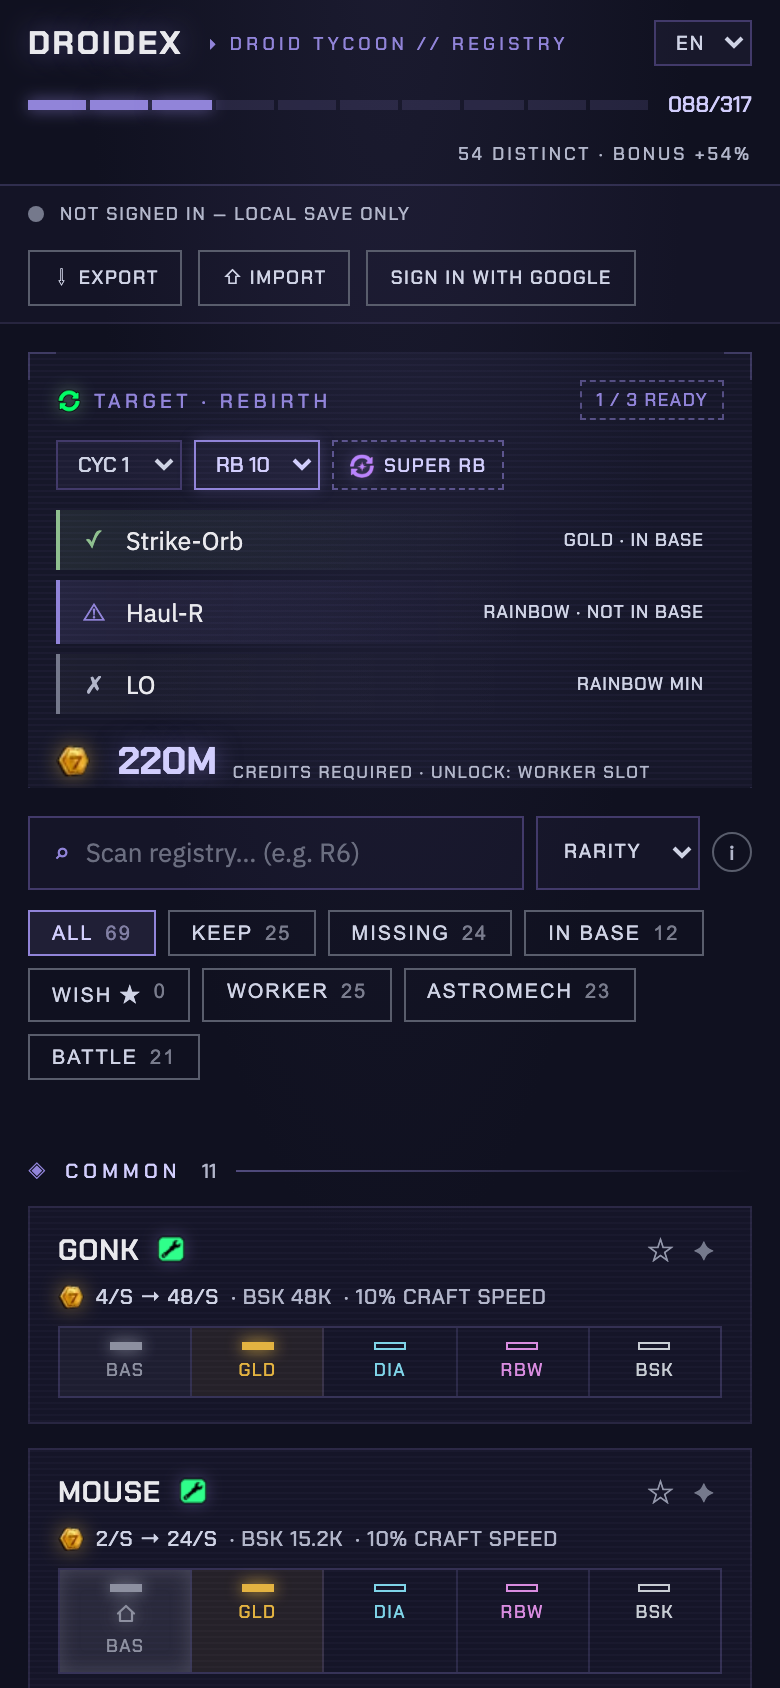
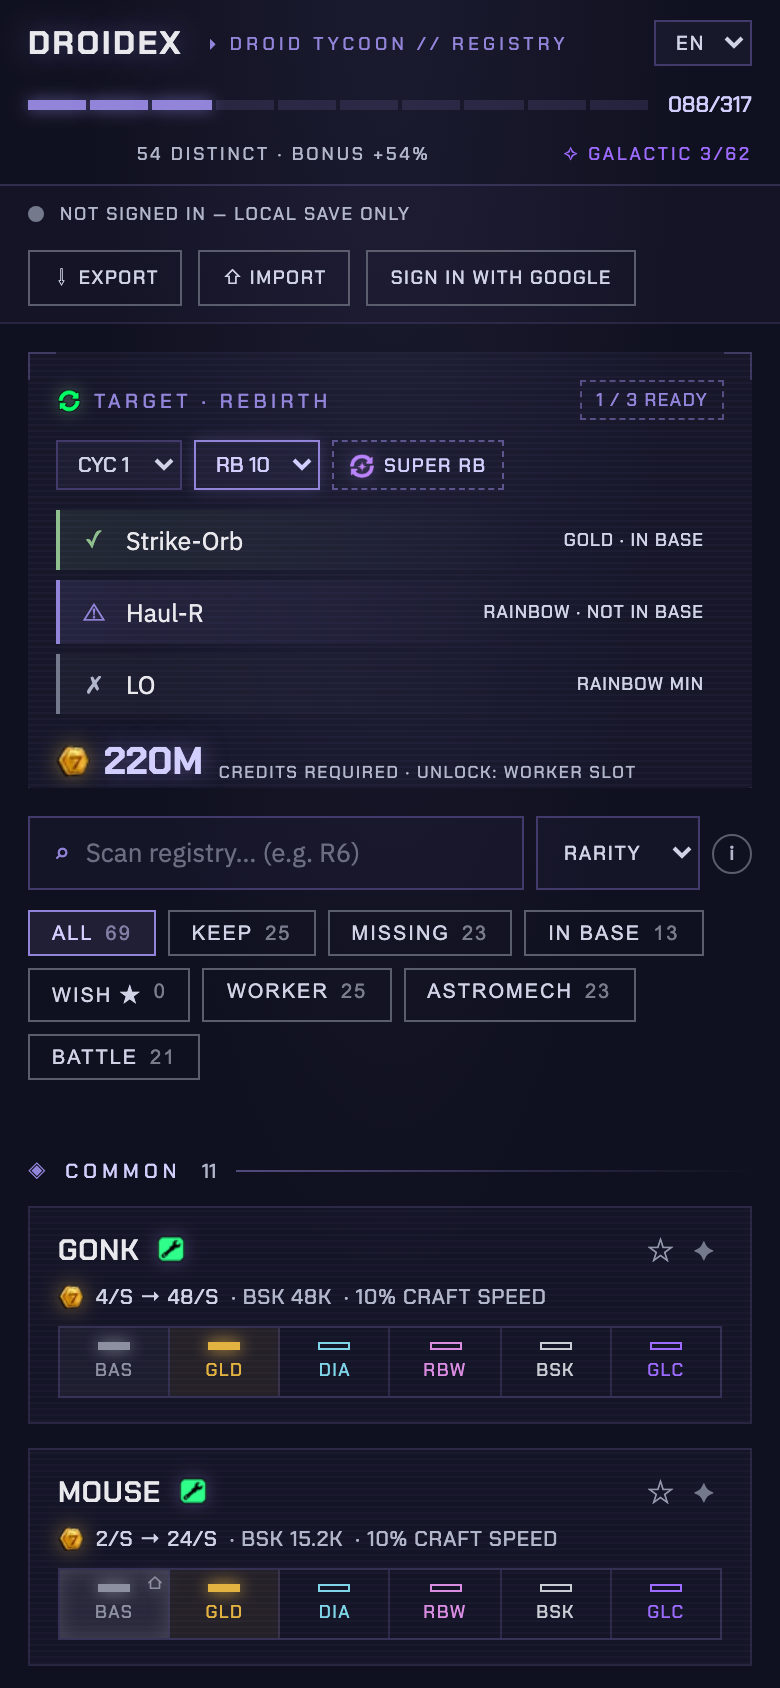
v1.5.1: contenu SEO dédié Galactique + captures README à jour
FAQ « What is the Galactic variant », intros value-list/rebirths, llms.txt,
captures régénérées avec pastilles GLC (registre démo enrichi).

diff --git a/tools/generate-seo-pages.js b/tools/generate-seo-pages.js
@@ -140,7 +140,9 @@ ${bodyHtml}
 
 function buildValueList() {
   const intro = `<p class="seo-intro">This value list gives the income per second and Beskar upgrade cost for every ` +
-    `droid in Star Wars: Droid Tycoon, across all six variants: Basic, Gold, Diamond, Rainbow, Beskar and Galactic. Numbers ` +
+    `droid in Star Wars: Droid Tycoon, across all six variants: Basic, Gold, Diamond, Rainbow, Beskar and Galactic ` +
+    `(the new tier added in the mid-July 2026 update — Galactic incomes are still being documented by the ` +
+    `community, undocumented values show as "—"). Numbers ` +
     `are cross-checked against community sources (${DATE_ISO}) rather than a single guide, and ` +
     `Droidex's own cycle 1 rebirth requirements have been verified in-game through rebirth 23. Iconic droids have ` +
     `no variants: owning one simply adds a flat +15% income bonus alongside its unique perk. Remember that in ` +
@@ -203,7 +205,8 @@ function buildRebirthRequirements() {
   const intro = `<p class="seo-intro">Star Wars: Droid Tycoon's progression runs through 28 rebirth levels, repeated ` +
     `across 4 cycles in an endless loop. Each level requires three specific droids placed in your base at a ` +
     `minimum variant, plus a credit cost that is identical across all 4 cycles for the same level, climbing from ` +
-    `10K at rebirth 1 to 45T at rebirth 28. From rebirth 12 onward, meeting the requirements lets you trigger a ` +
+    `10K at rebirth 1 to 45T at rebirth 28. Rebirth 28, added with the Galactic update of mid-July 2026, is the ` +
+    `first level to require a Galactic-tier droid in your base. From rebirth 12 onward, meeting the requirements lets you trigger a ` +
     `Super Rebirth instead of a normal one: it keeps your Droidex, droidsmith level, cosmetics, unlocked Flawless ` +
     `droids, Nova crystals and Iconic unlocks, but resets your base, its droids, your currencies, rebirth rank, ` +
     `pickaxe level and blueprints, before advancing you straight into the next cycle. This page lists every ` +
@@ -293,6 +296,19 @@ const FAQ = [
       'cycles in a loop, and each cycle can ask for a different trio of droids at the same level even though the ' +
       'credit cost stays identical across cycles. Certain rebirth levels also unlock a new slot for your base, ' +
       'such as an extra Worker or Astromech slot.',
+  },
+  {
+    q: 'What is the Galactic variant and how does it work?',
+    a: 'Galactic is the newest variant tier, added above Beskar in the mid-July 2026 game update, bringing the ' +
+      'total to six variants per standard droid. Exactly like the in-game Droidex screen, the Galactic tier is ' +
+      'not counted in the main 317-variant total: it has its own separate counter over the 62 standard droids, ' +
+      'and Droidex mirrors that with a dedicated "Galactic x/62" counter. Rebirth 28 — the new top level of each ' +
+      'of the 4 cycles — requires one specific Galactic droid placed in your base (for example a Galactic ' +
+      'Proto-Roller in cycle 1) alongside a Rainbow droid, a Beskar droid and 45T credits. Like every higher ' +
+      'variant, a Galactic copy also satisfies any lower requirement for the same droid. Community sources are ' +
+      'still documenting Galactic income values, and report Galactic droids appearing in-game on an hourly ' +
+      'spawn timer; Droidex tracks each Galactic copy with the same tap-through states (owned, in base) and ' +
+      'shows RB·GLC requirement badges so you know exactly which Galactic droids your next rebirth needs.',
   },
   {
     q: 'What is a Super Rebirth and what do you keep or lose?',

diff --git a/site/faq/index.html b/site/faq/index.html
@@ -56,6 +56,14 @@
     },
     {
       "@type": "Question",
+      "name": "What is the Galactic variant and how does it work?",
+      "acceptedAnswer": {
+        "@type": "Answer",
+        "text": "Galactic is the newest variant tier, added above Beskar in the mid-July 2026 game update, bringing the total to six variants per standard droid. Exactly like the in-game Droidex screen, the Galactic tier is not counted in the main 317-variant total: it has its own separate counter over the 62 standard droids, and Droidex mirrors that with a dedicated \"Galactic x/62\" counter. Rebirth 28 — the new top level of each of the 4 cycles — requires one specific Galactic droid placed in your base (for example a Galactic Proto-Roller in cycle 1) alongside a Rainbow droid, a Beskar droid and 45T credits. Like every higher variant, a Galactic copy also satisfies any lower requirement for the same droid. Community sources are still documenting Galactic income values, and report Galactic droids appearing in-game on an hourly spawn timer; Droidex tracks each Galactic copy with the same tap-through states (owned, in base) and shows RB·GLC requirement badges so you know exactly which Galactic droids your next rebirth needs."
+      }
+    },
+    {
+      "@type": "Question",
       "name": "What is a Super Rebirth and what do you keep or lose?",
       "acceptedAnswer": {
         "@type": "Answer",
@@ -136,6 +144,11 @@
   </div>
 
   <div class="seo-faq-item">
+    <h2>◈ What is the Galactic variant and how does it work?</h2>
+    <p>Galactic is the newest variant tier, added above Beskar in the mid-July 2026 game update, bringing the total to six variants per standard droid. Exactly like the in-game Droidex screen, the Galactic tier is not counted in the main 317-variant total: it has its own separate counter over the 62 standard droids, and Droidex mirrors that with a dedicated &quot;Galactic x/62&quot; counter. Rebirth 28 — the new top level of each of the 4 cycles — requires one specific Galactic droid placed in your base (for example a Galactic Proto-Roller in cycle 1) alongside a Rainbow droid, a Beskar droid and 45T credits. Like every higher variant, a Galactic copy also satisfies any lower requirement for the same droid. Community sources are still documenting Galactic income values, and report Galactic droids appearing in-game on an hourly spawn timer; Droidex tracks each Galactic copy with the same tap-through states (owned, in base) and shows RB·GLC requirement badges so you know exactly which Galactic droids your next rebirth needs.</p>
+  </div>
+
+  <div class="seo-faq-item">
     <h2>◈ What is a Super Rebirth and what do you keep or lose?</h2>
     <p>From rebirth level 12 onward, once your requirements are met you can trigger a Super Rebirth instead of a normal one, which advances you straight into the next cycle. You keep your Droidex, droidsmith level, cosmetics, unlocked Flawless droids, Nova crystals, and any Iconic droid unlocks. You lose your base layout, the droids currently placed in it, your currencies, your rebirth rank, your pickaxe level, and any blueprints — Iconic unlocks can be bought back at the Nova crystal shop afterward.</p>
   </div>
@@ -162,7 +175,7 @@
 </main>
 <footer class="seo-footer">
   <p class="seo-legal">Fan project not affiliated with Epic Games, Lucasfilm or Disney. Star Wars is a trademark of Lucasfilm Ltd. Droid Tycoon is a Fortnite mode created by FOAD/Blzn Studios. <a href="https://github.com/n4ckz/droidex" rel="noopener">Source code on GitHub</a>.</p>
-  <p class="seo-version">DROIDEX V1.5.0</p>
+  <p class="seo-version">DROIDEX V1.5.1</p>
 </footer>
 </body>
 </html>

diff --git a/site/rebirth-requirements/index.html b/site/rebirth-requirements/index.html
@@ -55,7 +55,7 @@
 </header>
 <main class="seo-main">
 <h1>Droid Tycoon rebirth requirements</h1>
-<p class="seo-intro">Star Wars: Droid Tycoon's progression runs through 28 rebirth levels, repeated across 4 cycles in an endless loop. Each level requires three specific droids placed in your base at a minimum variant, plus a credit cost that is identical across all 4 cycles for the same level, climbing from 10K at rebirth 1 to 45T at rebirth 28. From rebirth 12 onward, meeting the requirements lets you trigger a Super Rebirth instead of a normal one: it keeps your Droidex, droidsmith level, cosmetics, unlocked Flawless droids, Nova crystals and Iconic unlocks, but resets your base, its droids, your currencies, rebirth rank, pickaxe level and blueprints, before advancing you straight into the next cycle. This page lists every cycle's requirements in full, cross-checked against community sources (2026-07-21).</p>
+<p class="seo-intro">Star Wars: Droid Tycoon's progression runs through 28 rebirth levels, repeated across 4 cycles in an endless loop. Each level requires three specific droids placed in your base at a minimum variant, plus a credit cost that is identical across all 4 cycles for the same level, climbing from 10K at rebirth 1 to 45T at rebirth 28. Rebirth 28, added with the Galactic update of mid-July 2026, is the first level to require a Galactic-tier droid in your base. From rebirth 12 onward, meeting the requirements lets you trigger a Super Rebirth instead of a normal one: it keeps your Droidex, droidsmith level, cosmetics, unlocked Flawless droids, Nova crystals and Iconic unlocks, but resets your base, its droids, your currencies, rebirth rank, pickaxe level and blueprints, before advancing you straight into the next cycle. This page lists every cycle's requirements in full, cross-checked against community sources (2026-07-21).</p>
 
   <h2>◈ Cycle 1</h2>
   <div class="seo-table-wrap">
@@ -215,7 +215,7 @@
 </main>
 <footer class="seo-footer">
   <p class="seo-legal">Fan project not affiliated with Epic Games, Lucasfilm or Disney. Star Wars is a trademark of Lucasfilm Ltd. Droid Tycoon is a Fortnite mode created by FOAD/Blzn Studios. <a href="https://github.com/n4ckz/droidex" rel="noopener">Source code on GitHub</a>.</p>
-  <p class="seo-version">DROIDEX V1.5.0</p>
+  <p class="seo-version">DROIDEX V1.5.1</p>
 </footer>
 </body>
 </html>

diff --git a/site/value-list/index.html b/site/value-list/index.html
@@ -54,7 +54,7 @@
 </header>
 <main class="seo-main">
 <h1>Droid Tycoon value list</h1>
-<p class="seo-intro">This value list gives the income per second and Beskar upgrade cost for every droid in Star Wars: Droid Tycoon, across all six variants: Basic, Gold, Diamond, Rainbow, Beskar and Galactic. Numbers are cross-checked against community sources (2026-07-21) rather than a single guide, and Droidex's own cycle 1 rebirth requirements have been verified in-game through rebirth 23. Iconic droids have no variants: owning one simply adds a flat +15% income bonus alongside its unique perk. Remember that in Droidex's rebirth panel, a higher variant always satisfies a lower requirement — if a rebirth asks for a droid at Gold minimum, owning it at Diamond or better already counts, so this list also doubles as a quick reference for which variant is "enough".</p>
+<p class="seo-intro">This value list gives the income per second and Beskar upgrade cost for every droid in Star Wars: Droid Tycoon, across all six variants: Basic, Gold, Diamond, Rainbow, Beskar and Galactic (the new tier added in the mid-July 2026 update — Galactic incomes are still being documented by the community, undocumented values show as "—"). Numbers are cross-checked against community sources (2026-07-21) rather than a single guide, and Droidex's own cycle 1 rebirth requirements have been verified in-game through rebirth 23. Iconic droids have no variants: owning one simply adds a flat +15% income bonus alongside its unique perk. Remember that in Droidex's rebirth panel, a higher variant always satisfies a lower requirement — if a rebirth asks for a droid at Gold minimum, owning it at Diamond or better already counts, so this list also doubles as a quick reference for which variant is "enough".</p>
 
   <h2>◈ Common</h2>
   <div class="seo-table-wrap">
@@ -193,7 +193,7 @@
 </main>
 <footer class="seo-footer">
   <p class="seo-legal">Fan project not affiliated with Epic Games, Lucasfilm or Disney. Star Wars is a trademark of Lucasfilm Ltd. Droid Tycoon is a Fortnite mode created by FOAD/Blzn Studios. <a href="https://github.com/n4ckz/droidex" rel="noopener">Source code on GitHub</a>.</p>
-  <p class="seo-version">DROIDEX V1.5.0</p>
+  <p class="seo-version">DROIDEX V1.5.1</p>
 </footer>
 </body>
 </html>

diff --git a/tests/screenshots.js b/tests/screenshots.js
@@ -22,10 +22,10 @@ const STATE = {
     balcore:[1,0,0,0,0], '2bb':[1,1,0,0,0], alt:[1,0,2,0,0], r4:[1,0,0,0,0],
     r9:[1,1,2,0,0], b1sec:[1,1,0,0,0], vectarm:[1,0,0,0,0], hovr:[1,1,2,0,0],
     groundmech:[1,1,0,0,0], lo:[1,1,0,0,0], amp:[1,0,0,1,0], sentri:[1,0,0,0,0],
-    gunrunner:[1,1,0,0,0], bb:[1,1,0,0,0], r2:[1,1,1,0,0], r6:[1,2,0,0,0],
+    gunrunner:[1,1,0,0,0], bb:[1,1,0,0,0,2], r2:[1,1,1,0,0], r6:[1,2,0,0,0,1],
     trakr:[1,1,0,0,0], orbwalker:[1,0,0,0,0], utiltec:[1,1,0,0,0],
     b2super:[1,0,0,0,0], b2heavy:[0,1,0,0,0], strikeorb:[0,0,2,0,0],
-    haulr:[0,0,0,1,0], lngshot:[1,0,0,0,0], protoroller:[1,1,0,0,0],
+    haulr:[0,0,0,1,0], lngshot:[1,0,0,0,0], protoroller:[1,1,0,0,0,1],
     mechadroid:[1,0,0,0,0], bb9:[1,1,0,0,0], r7:[1,0,0,0,0], cyclograv:[1,0,0,0,0],
     snowmouse:[1,0,0,0,0], ric:[1,1,0,0,0], lep:[1,0,0,0,0], motrak:[1,0,0,0,0],
     cyclens:[1,1,0,0,0], kx:[1,0,0,0,0], ig:[1,1,1,0,0],

diff --git a/site/version.js b/site/version.js
@@ -1,4 +1,4 @@
 /* Version de l'application — source unique.
    Incrémenter à CHAQUE mise à jour du site : elle alimente l'affichage du
    footer et la version du cache du service worker (invalidation offline). */
-const APP_VERSION = '1.5.0';
+const APP_VERSION = '1.5.1';

diff --git a/tests/test-droidex.js b/tests/test-droidex.js
@@ -369,6 +369,7 @@ const setTarget = (w, rb) => {
     assert(rb.includes('45T'), 'rebirths : RB28 (45T) présent');
     const faq = read('faq/index.html');
     assert(faq.includes('"@type": "FAQPage"') || faq.includes('"@type":"FAQPage"'), 'FAQ : JSON-LD FAQPage');
+    assert(faq.includes('What is the Galactic variant'), 'FAQ : entrée dédiée à la variante Galactic');
     const sm = read('sitemap.xml');
     assert((sm.match(/<loc>/g) || []).length === 4, 'sitemap : 4 URLs');
     ['value-list','rebirth-requirements','faq'].forEach(p =>

diff --git a/CHANGELOG.md b/CHANGELOG.md
@@ -1,5 +1,14 @@
 # Changelog
 
+## 1.5.1 — 2026-07-21
+
+SEO follow-up for the Galactic update (new searches expected):
+
+- Dedicated FAQ entry "What is the Galactic variant and how does it work?" (separate x/62 counter, RB28 requirement, hourly spawn per community sources, partial income data)
+- Value list and rebirth pages: intros explicitly mention the mid-July 2026 Galactic update and the RB28 Galactic requirement
+- llms.txt: dedicated Galactic bullet (tier above Beskar, x/62 counter, RB·GLC badges, "—" for undocumented incomes)
+- README screenshots regenerated with Galactic (GLC) cells visible
+
 ## 1.5.0 — 2026-07-21
 
 Game update (Galactic variant):